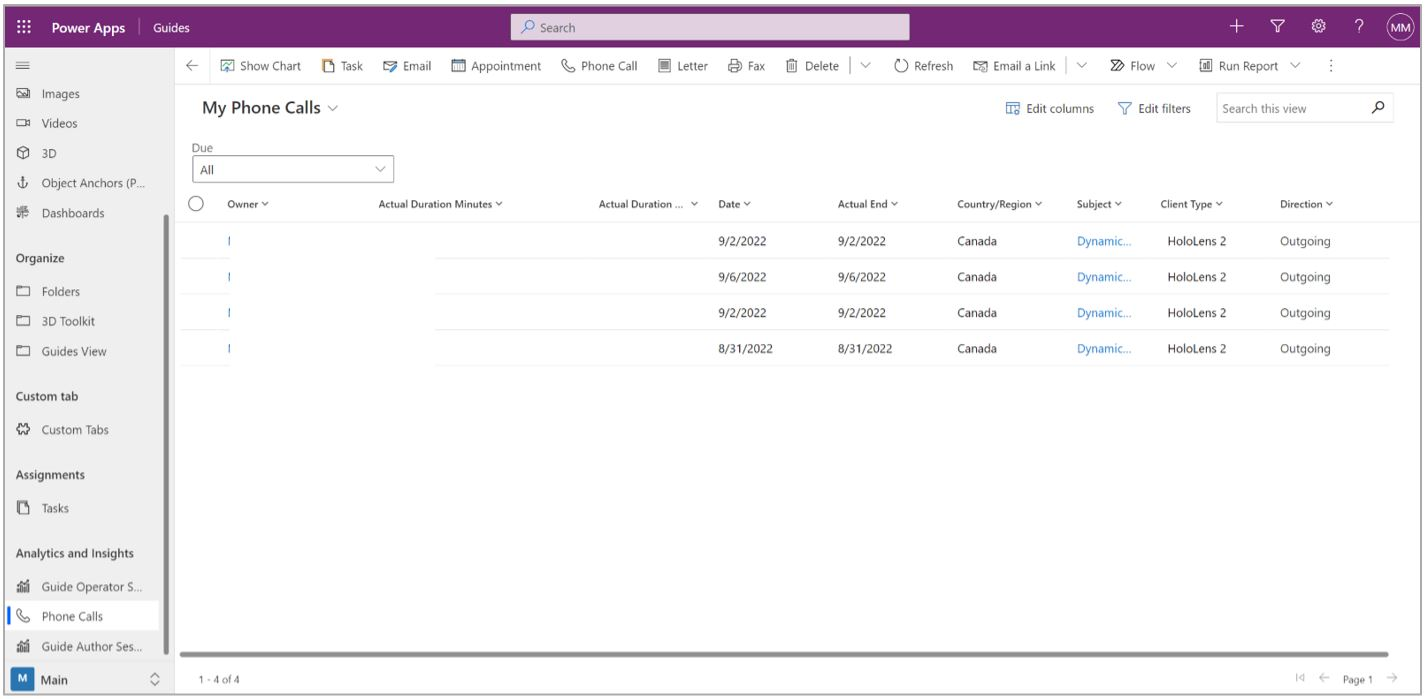
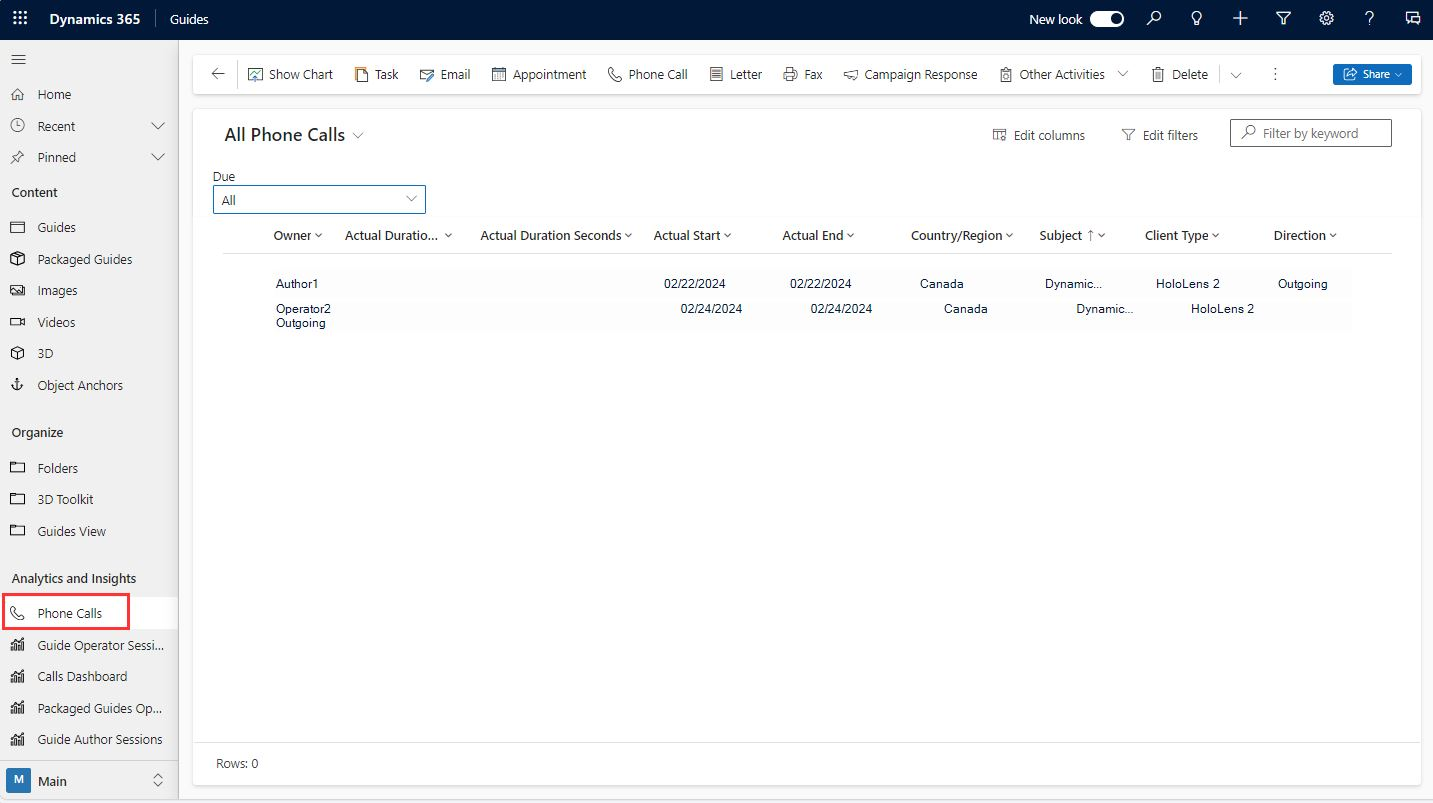
MDA updates

diff --git a/mr-docs/guides/admin-enable-calls.md b/mr-docs/guides/admin-enable-calls.md
@@ -2,15 +2,16 @@
 author: davepinch
 description: Learn how to enable or disable calling in a Dynamics 365 Guides environment 
 ms.author: davepinch
-ms.date: 04/28/2023
+ms.date: 02/22/2024
 ms.topic: how-to
 title: Enable or disable calling for a Dynamics 365 Guides environment
 ms.reviewer: v-wendysmith
+ms.custom: bap-template
 ---
 
 # Enable or disable calling in a Dynamics 365 Guides environment
 
-Calling in Microsoft Dynamics 365 Guides is enabled by default. When calling is enabled, a Dynamics 365 Guides HoloLens user can make or receive calls with a remote collaborator. The remote collaborator can join a call using Microsoft Teams desktop (PC or Mac) or the Teams mobile app. During the call, the remote collaborator can see everything seen by the Dynamics 365 Guides user, including holograms and the real world behind the holograms.
+Calling in Microsoft Dynamics 365 Guides is enabled by default. When calling is enabled, a Dynamics 365 Guides HoloLens user can make or receive calls with a remote collaborator. The remote collaborator can join a call using Microsoft Teams desktop (PC or Mac) or the Teams mobile app. During the call, the remote collaborator can see everything seen by the Guides user, including holograms and the real world behind the holograms.
 
 If you're an admin for Dynamics 365 Guides, enable or disable calling for users in a specific Dynamics 365 Guides environment. Enabling or disabling calling for a specific environment is useful:
 
@@ -18,37 +19,30 @@ If you're an admin for Dynamics 365 Guides, enable or disable calling for users 
 
 - You don't want HoloLens users to be able to inadvertently reveal proprietary information through a call.
 
-[Learn about licensing requirements and limitations when making calls in Dynamics 365 Guides](requirements.md)
+[Learn about licensing requirements and limitations when making calls in Dynamics 365 Guides](requirements.md).
+
+## Prerequisites
+
+- Guides Admin or Author role
 
 ## Enable or disable calling
 
-1. Sign in to the environment by using your admin or author credentials.
+1. [Open the model-driven app](open-model-driven-app.md) in Guides.
 
-    > [!TIP]
-    > To find the URL for the environment, select the **Analyze** tab in the PC app. The URL is shown in the **Environment URL** field at the bottom of the page. Copy this URL, and paste it into the address bar of your web browser.
-    >
-    > ![Environment URL field.](media/environment-URL.png "Environment URL field")
+1. On the bottom left side of the screen, select **Main**, and then select **Settings**.
 
-2. In Power Apps, select the **Guides** app tile.
+   :::image type="content" source="media/main-to-settings-area.PNG" alt-text="Screenshot that shows changing from Main to Settings area in the Guides model-driven app.":::
 
-    ![Guides app tile.](media/guides-app-tile.PNG "Guides app tile")
+1. In the left pane, select **Environment**, and then toggle **Enable Calling** on or off for this environment. This action enables or disables the functionality for all configured users signed into that environment. Disabling calling in a Dynamics 365 environment only disables that functionality for Guides and has no impact on that capability in Microsoft Teams.
 
-3. In the left pane, use the area picker at the bottom of the screen to switch the area selection from **Main** to **Settings** to view all settings for the environment.
+   :::image type="content" source="media/main-to-settings-area.PNG" alt-text="Screenshot that shows changing from Main to Settings area in the Guides model-driven app.":::
 
-    ![Settings highlighted in the left pane.](media/admin-enable-calling-settings.JPG "Settings highlighted in left pane")
+If a user tries to start a call while working in an environment where calling is disabled, the user sees the following error message:
 
-4. In the left pane, select **Environment**, and then move the **Enable Calling** slider as needed to enable or disable calling for the environment. This action enables or disables the functionality for all configured users signed into that environment. Disabling calling in a Dynamics 365 environment only disables that functionality for Guides and has no impact on that capability in Microsoft Teams.
+"**Your admin may have disabled calling or you may not have a Microsoft Teams or Remote Assist license.**"
 
-    ![New command highlighted at top of Power Apps screen.](media/admin-enable-calling.JPG "New command highlighted at top of Power Apps screen")
-
-    If a user tries to start a call while working in an environment where calling is disabled, the user will see the following error message:
-
-    "**Your admin may have disabled calling or you may not have a Microsoft Teams or Remote Assist license.**"
-
-    > [!NOTE]
-    > Enabling or disabling calling is not immediate. A change can take time to propagate. [Learn how to revoke user access in an emergency in Microsoft Entra ID](/azure/active-directory/enterprise-users/users-revoke-access).
-
-    [!INCLUDE [azure-ad-to-microsoft-entra-id](../includes/azure-ad-to-microsoft-entra-id.md)]
+> [!NOTE]
+> Enabling or disabling calling is not immediate. A change can take time to propagate. [Learn how to revoke user access in an emergency in Microsoft Entra ID](/azure/active-directory/enterprise-users/users-revoke-access).
 
 ## See also
 

diff --git a/mr-docs/guides/call-logging.md b/mr-docs/guides/call-logging.md
@@ -2,7 +2,7 @@
 author: davepinch
 description: Learn how to view and access call data stored by Dynamics 365 Guides
 ms.author: davepinch
-ms.date: 06/23/2023
+ms.date: 02/22/2024
 ms.topic: how-to
 title: View and access call data stored by Dynamics 365 Guides
 ms.reviewer: v-wendysmith
@@ -16,18 +16,14 @@ When Microsoft Dynamics 365 Guides users make or receive calls in the HoloLens a
 > [!NOTE]
 > This feature is intended to help supervisors and managers derive insights regarding operational efficiencies and usage of Dynamics 365 Guides. This feature is not intended for use in making — and should not be used to make — decisions that affect the employment of an employee or group of employees, including compensation, rewards, seniority, or other rights or entitlements. Customers are solely responsible for using Dynamics 365, this feature, and any associated feature or service in compliance with all applicable laws, including laws relating to accessing individual employee analytics and monitoring. End users will need to enable access from their device to phone call records and specifically consent to sharing location information before that information is shared and available. However, customers are also encouraged to have a mechanism in place to inform their users that analytics (such as call duration and location) relating to their communications are collected.
 
-## Prerequisites
-
-- Access to the Guides model-driven app or Power Apps
-
 ## View call data
 
 1. [Open the Guides model-driven app](open-model-driven-app.md).
 
 1. On the left side of the screen, under **Analytics and Insights**, select **Phone Calls**.
 
-    ![Screenshot of model-driven app with call information.](media/call-logging-model-driven-app.JPG "Screenshot of model-driven app with call information")
-
+   :::image type="content" source="media/call-logging-model-driven-app.JPG" alt-text="Screenshot of model-driven app with call informatio.":::
+  
 1. If you're a user, you can view your own call records. If you're an administrator, to view all call records, select the **All Phone Calls** view.
 
    > [!NOTE]

diff --git a/mr-docs/guides/data-opt-out.md b/mr-docs/guides/data-opt-out.md
@@ -17,9 +17,9 @@ Dynamics 365 Guides enable teams to capture usage statistics and detailed time-t
 
 1. [Open the model-driven app](open-model-driven-app.md).
 
-1. On the left side of the screen, select the up arrow next to **Main**, and then select **Settings**.
+1. On the bottom left side of the screen, select **Main**, and then select **Settings**.
 
-   :::image type="content" source="media/data-opt-out-user-setting.PNG" alt-text="Screenshot of Settings in the Guides model-driven app.":::
+   :::image type="content" source="media/main-to-settings-area.PNG" alt-text="Screenshot that shows changing from Main to Settings area in the Guides model-driven app.":::
 
 1. Select **New** at the top of the screen.
 

diff --git a/mr-docs/guides/model-driven-app-overview.md b/mr-docs/guides/model-driven-app-overview.md
@@ -2,7 +2,7 @@
 author: davepinch
 description: Guides model-driven app overview
 ms.author: davepinch
-ms.date: 06/27/2023
+ms.date: 02/22/2024
 ms.topic: overview
 title: Guides model-driven app overview
 ms.reviewer: v-wendysmith
@@ -28,6 +28,8 @@ If you're an admin or an author for Dynamics 365 Guides, you can use the Guides 
 - [Create folders to organize your guides](admin-create-folders.md)
 
 - [Create workflows in Microsoft Power Apps to automate Dynamics 365 Guides processes](workflow-examples-overview.md)
+
+- [Enable or disable calling](admin-enable-calls.md)
 
 - [Fix a corrupted guide](corrupted-guide.md)
 
